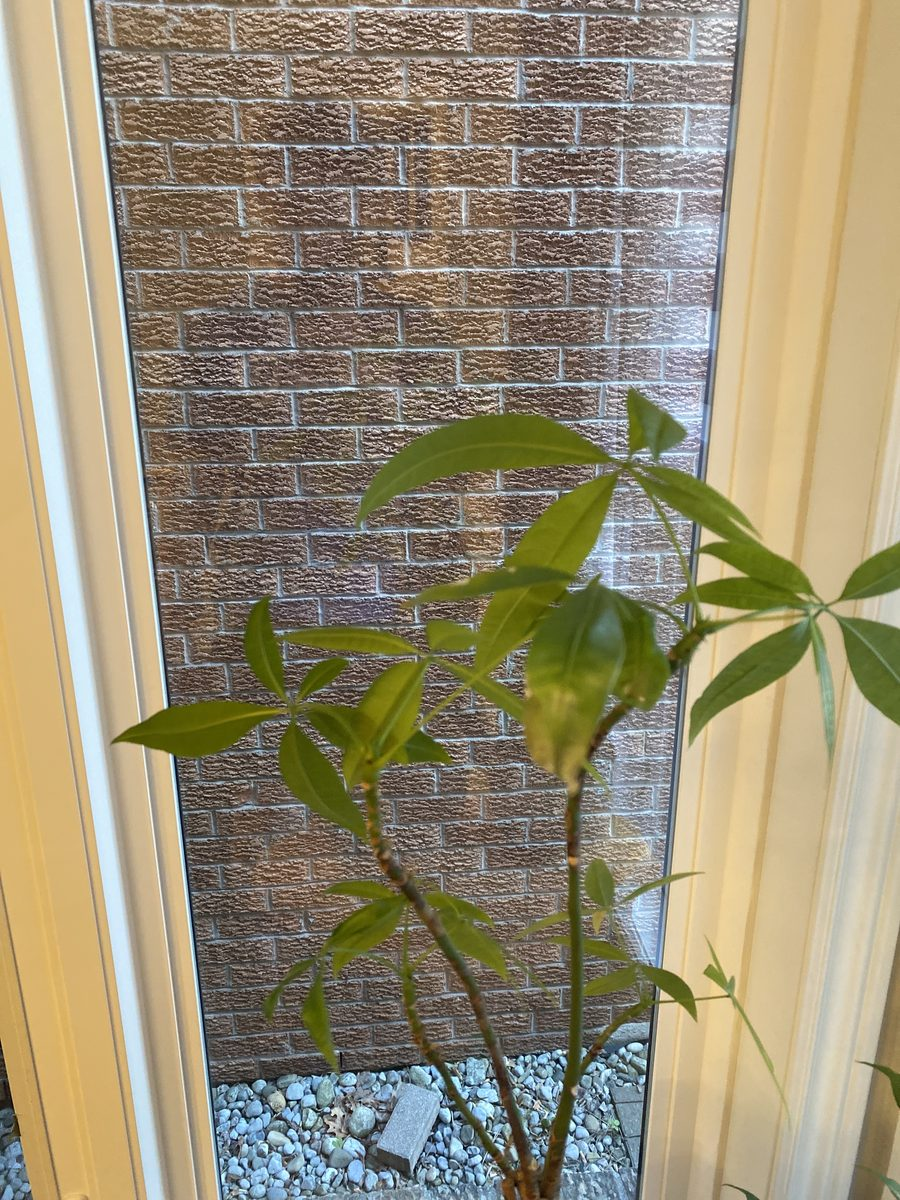
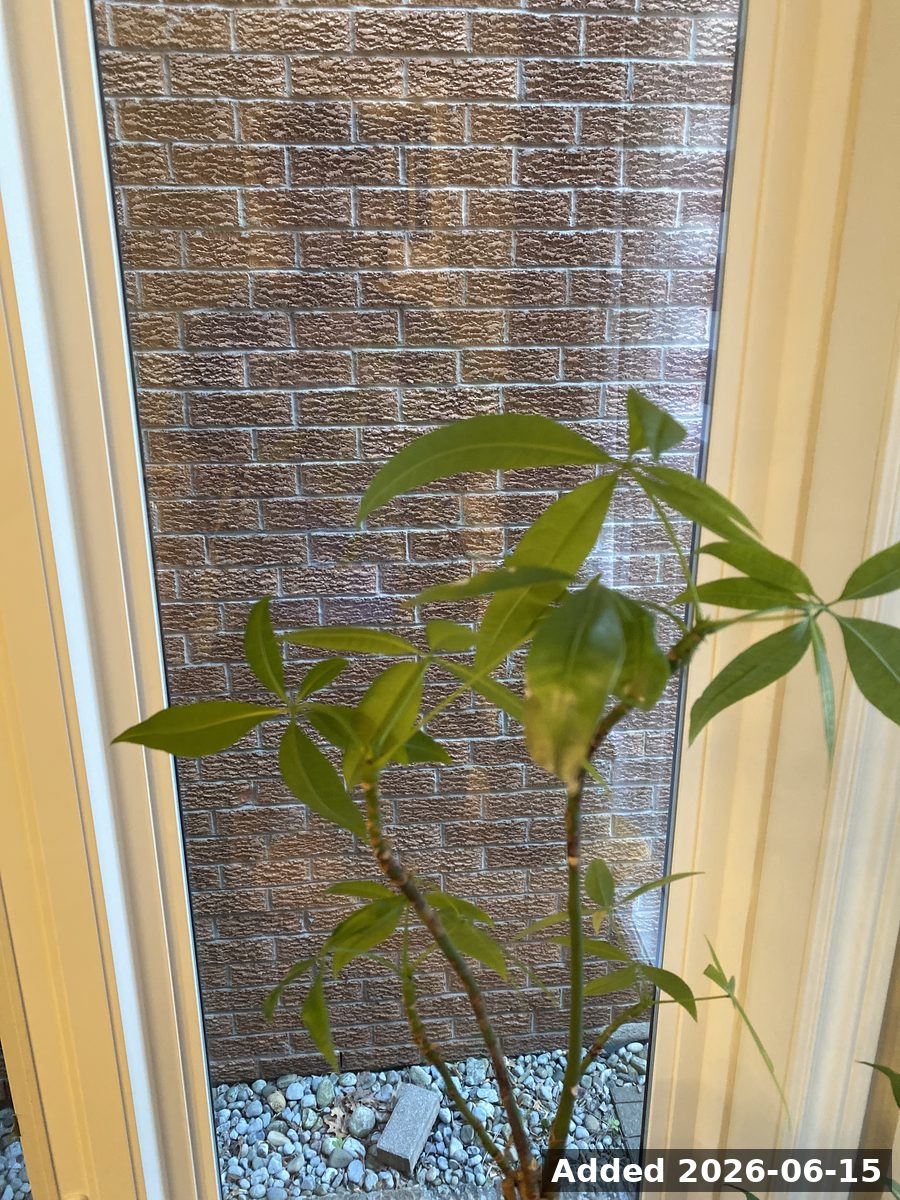
Stamp date-added on plant photos
- Overlay an 'Added YYYY-MM-DD' timestamp on the money tree photo
- Document the timestamping step in the CLAUDE.md photo workflow

Changed region(s): [[0.5911, 0.9558, 0.9956, 1.0]]

diff --git a/CLAUDE.md b/CLAUDE.md
@@ -93,6 +93,24 @@ When the user supplies a photo of a plant, do the following:
    im.save(dest, "JPEG", quality=82, optimize=True)
    ```
    This keeps files around a few hundred KB instead of several MB.
+   Then **stamp the date added** in the bottom-right corner so each photo
+   carries its own timeline:
+   ```python
+   from PIL import ImageDraw, ImageFont
+   text = f"Added {today}"            # today as YYYY-MM-DD
+   size = max(16, im.width // 28)
+   try:    font = ImageFont.truetype("DejaVuSans-Bold.ttf", size)
+   except Exception: font = ImageFont.load_default(size)
+   draw = ImageDraw.Draw(im)
+   l, t, r, b = draw.textbbox((0, 0), text, font=font)
+   pad = max(8, im.width // 100)
+   x, y = im.width - (r - l) - pad * 2, im.height - (b - t) - pad * 2
+   ov = Image.new("RGBA", im.size, (0, 0, 0, 0))
+   ImageDraw.Draw(ov).rectangle([x - pad, y - pad, x + (r - l) + pad, y + (b - t) + pad], fill=(0, 0, 0, 140))
+   im = Image.alpha_composite(im.convert("RGBA"), ov).convert("RGB")
+   ImageDraw.Draw(im).text((x - l, y - t), text, font=font, fill=(255, 255, 255))
+   ```
+   Stamp the photo *before* saving the final JPEG.
 2. **Link it from the plant file.** Add an `image: "images/<plant-id>.jpeg"`
    field near the top of the plant's YAML (just after `name:`), matching the
    pattern in `plants/hoya-krimson-queen.yaml`.
